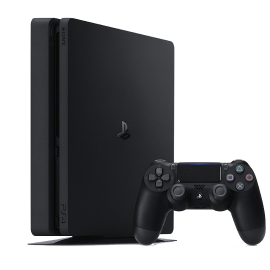
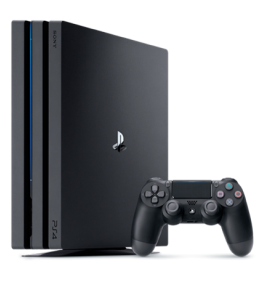
productdata

diff --git a/public/index.html b/public/index.html
@@ -99,7 +99,7 @@
             <h2 class="advantage__title mb-4 mb-lg-3 mb-sm-1">
               Подбираем качественные инструменты для&nbsp;инвестирования. Вы&nbsp;выбираете подходящий, мы&nbsp;следим за&nbsp;ситуацией на&nbsp;рынке и&nbsp;вносим 
               нужные изменения для&nbsp;вашей выгоды.
-            </h2><a class="btn btn_action" href="javascript;">Перейти на наш сайт                    </a>
+            </h2><a class="btn btn_action" href="#callback" data-trigger="scroll">Заказать обратный звонок                    </a>
           </div>
           <div class="col-5 col-lg-6 col-sm-12 advantage__items">
                 <div class="item item_advantage">
@@ -168,7 +168,7 @@
           </div>
         </div>
       </div>
-      <div class="container cta-block-container">
+      <div class="container cta-block-container" id="callback">
         <div class="cta-block">
           <div class="cta-block__container">
             <p class="h1 cta-block__title mb-1">Хотите узнать о нас больше?</p>

diff --git a/public/js/productdata.js b/public/js/productdata.js
@@ -26,11 +26,11 @@ window.productdata={
 			}
 		},
 		{
-			icon: './img/clock.png',
-			name: 'Sony Playstation 4',
+			icon: './img/sony.png',
+			name: 'Sony PlayStation 4 Pro',
 			type: 'Игровая приставка',
 			price: {
-				rur:"49 990"
+				rur:"34 999"
 			}
 		}
 	]

diff --git a/src/items/item/_item_service.scss b/src/items/item/_item_service.scss
@@ -17,7 +17,7 @@
         // font-size: map-get($map: $font-size, $key: md);
         // line-height: $line-height-base;
         color: $light-grey;
-        min-height: 230px;
+        // min-height: 230px;
     }
 }
 // < 1600px

diff --git a/public/css/main.css b/public/css/main.css
@@ -700,7 +700,6 @@
 
 .item_service__intro {
   color: rgba(255, 255, 255, 0.7);
-  min-height: 230px;
 }
 
 @media all and (max-width: 1600px) {
